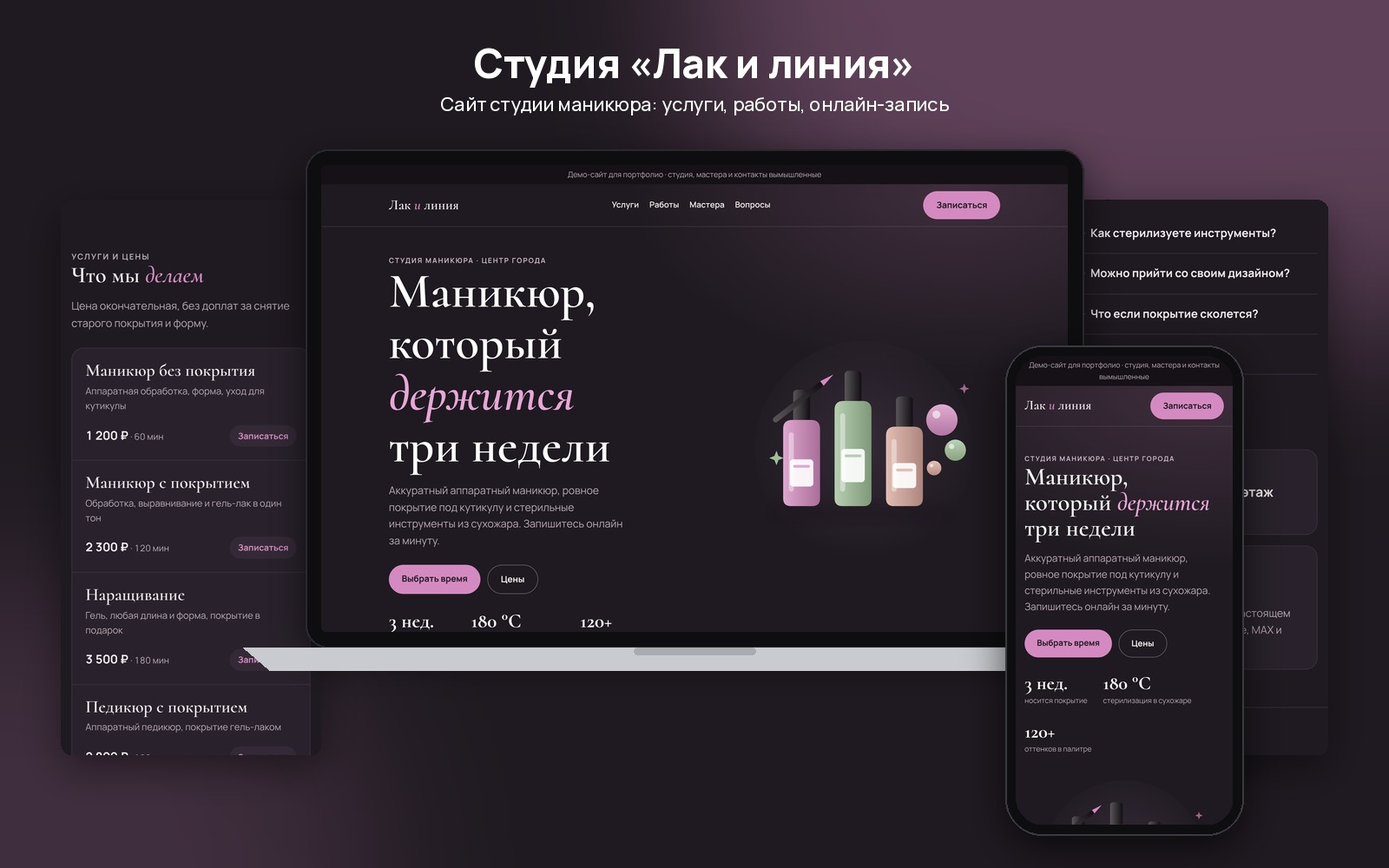
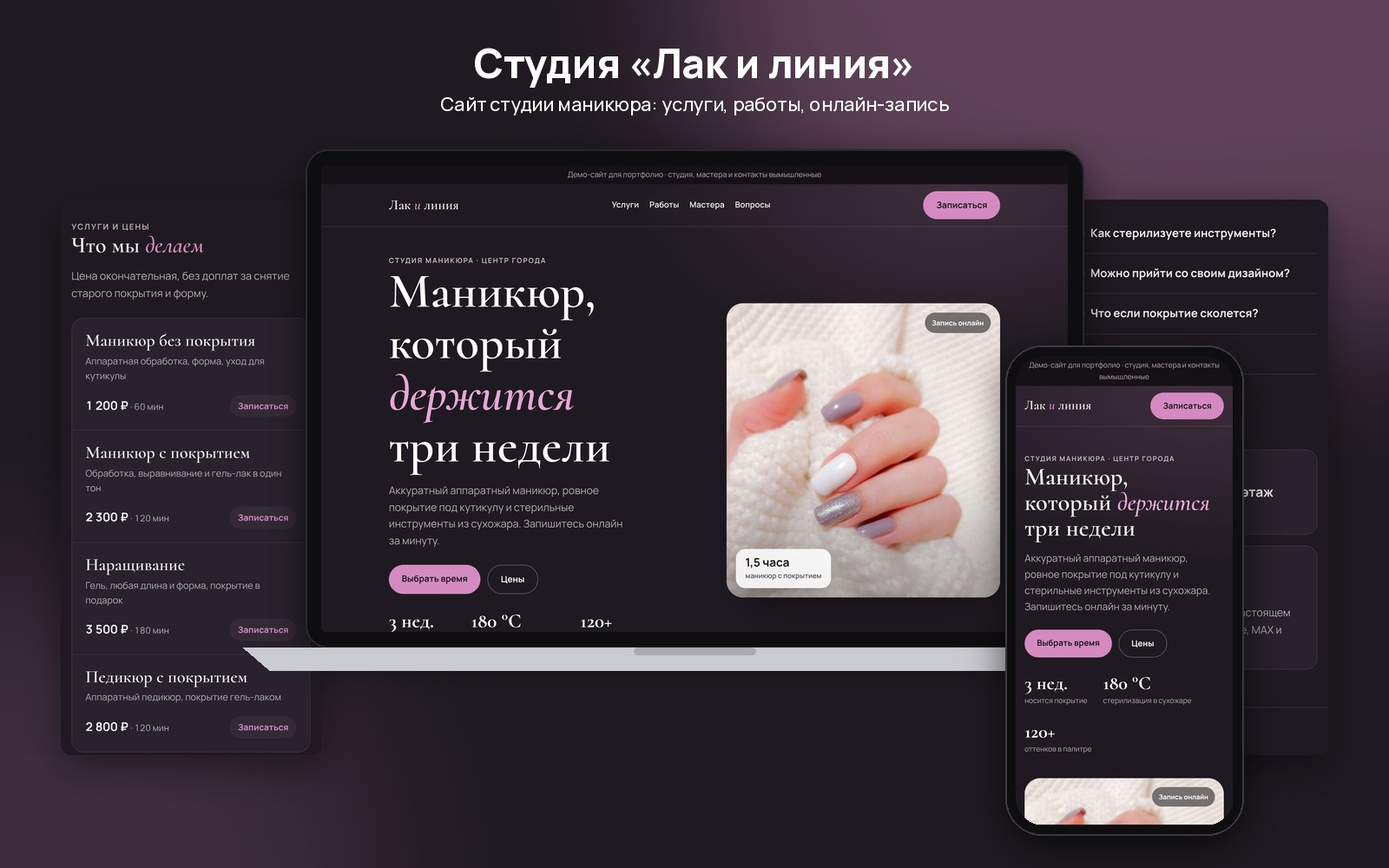
Примеры с настоящими фото (Unsplash), новые обложки
Claude-Session: https://claude.ai/code/session_01JFoXaW88EfvuPr2HYJzWZW

diff --git a/nogti/index.html b/nogti/index.html
@@ -106,7 +106,7 @@ input{width:100%;font:inherit;color:var(--fg);background:var(--bg);border:1px so
 .chip[aria-pressed="true"]{background:var(--fg);color:var(--bg);border-color:var(--fg)}
 .gallery{display:grid;grid-template-columns:repeat(auto-fill,minmax(150px,1fr));gap:12px;margin-top:18px}
 .work{border-radius:16px;overflow:hidden;background:var(--surface);border:1px solid var(--line)}
-.work canvas{display:block;width:100%;aspect-ratio:1}
+.work img{display:block;width:100%;aspect-ratio:1;object-fit:cover;transition:transform .6s cubic-bezier(.2,.75,.2,1)}.work{position:relative}.work:hover img{transform:scale(1.05)}
 .work p{font-size:13px;padding:8px 10px;color:var(--muted)}
 .masters{display:grid;grid-template-columns:repeat(auto-fit,minmax(220px,1fr));gap:16px}
 .master{display:flex;gap:14px;align-items:center;background:var(--surface);border:1px solid var(--line);border-radius:18px;padding:16px}
@@ -141,6 +141,15 @@ footer{border-top:1px solid var(--line);padding-block:24px;color:var(--muted);fo
 .band .facts b{color:#fff}
 .art .illus{width:100%;max-width:460px;display:block;margin:0 auto}
 .hero>*{min-width:0}
+
+/* фото в первом экране */
+.art.pho{position:relative;border-radius:28px;overflow:hidden;aspect-ratio:4/4.3;box-shadow:0 40px 70px -40px rgba(0,0,0,.55);background:var(--line,#ddd)}
+.art.pho>img{position:absolute;inset:0;width:100%;height:100%;object-fit:cover}
+.art.pho::after{content:"";position:absolute;inset:0;background:linear-gradient(180deg,rgba(0,0,0,0) 55%,rgba(0,0,0,.3))}
+.art.pho .glass{position:absolute;z-index:2;left:16px;bottom:16px;display:flex;flex-direction:column;gap:2px;padding:12px 16px;border-radius:16px;background:rgba(255,255,255,.86);backdrop-filter:blur(10px);color:#1d1d1f;box-shadow:0 10px 30px -10px rgba(0,0,0,.35)}
+.art.pho .glass b{font-size:20px;line-height:1.1}.art.pho .glass span{font-size:12px;color:#55555c;font-weight:600}
+.art.pho .tag2{position:absolute;z-index:2;right:16px;top:16px;padding:8px 12px;border-radius:999px;background:rgba(20,20,20,.55);backdrop-filter:blur(8px);color:#fff;font-size:12px;font-weight:700}
+@media (max-width:720px){.art.pho{aspect-ratio:4/3.4}}
 </style>
 <style>
 /* fx: плавные анимации (отключаются, если в системе включено «уменьшить движение») */
@@ -180,19 +189,7 @@ footer{border-top:1px solid var(--line);padding-block:24px;color:var(--muted);fo
       <div><b>120+</b><span>оттенков в палитре</span></div>
     </div>
   </div>
-  <div class="art"><svg class="illus" viewBox="0 0 480 400" xmlns="http://www.w3.org/2000/svg" aria-hidden="true"><defs><linearGradient id="i2l0" x1="0" y1="0" x2="0" y2="1"><stop offset="0" stop-color="#e0add2"/><stop offset="1" stop-color="#b475a3"/></linearGradient><linearGradient id="i2l1" x1="0" y1="0" x2="0" y2="1"><stop offset="0" stop-color="#bbd2b6"/><stop offset="1" stop-color="#87a280"/></linearGradient><linearGradient id="i2l2" x1="0" y1="0" x2="0" y2="1"><stop offset="0" stop-color="#e4c1b9"/><stop offset="1" stop-color="#b88d83"/></linearGradient><linearGradient id="i2l3" x1="0" y1="0" x2="1" y2="0"><stop offset="0" stop-color="#dea7cf"/><stop offset="1" stop-color="#a96e99"/></linearGradient><linearGradient id="i2l4" x1="0" y1="0" x2="1" y2="0"><stop offset="0" stop-color="#595659"/><stop offset="1" stop-color="#120E13"/></linearGradient><linearGradient id="i2l5" x1="0" y1="0" x2="1" y2="0"><stop offset="0" stop-color="#b7cfb1"/><stop offset="1" stop-color="#7f9878"/></linearGradient><linearGradient id="i2l6" x1="0" y1="0" x2="1" y2="0"><stop offset="0" stop-color="#595659"/><stop offset="1" stop-color="#120E13"/></linearGradient><linearGradient id="i2l7" x1="0" y1="0" x2="1" y2="0"><stop offset="0" stop-color="#e2bdb4"/><stop offset="1" stop-color="#ad857c"/></linearGradient><linearGradient id="i2l8" x1="0" y1="0" x2="1" y2="0"><stop offset="0" stop-color="#595659"/><stop offset="1" stop-color="#120E13"/></linearGradient><linearGradient id="i2l9" x1="0" y1="0" x2="1" y2="0"><stop offset="0" stop-color="#595659"/><stop offset="1" stop-color="#120E13"/></linearGradient><radialGradient id="i2r10" cx="50%" cy="45%" r="55%"><stop offset="0" stop-color="#342A37" stop-opacity="1"/><stop offset="1" stop-color="#342A37" stop-opacity="0"/></radialGradient><filter id="i2f11" x="-50%" y="-50%" width="200%" height="200%"><feGaussianBlur stdDeviation="9"/></filter></defs><circle cx="240" cy="200" r="195" fill="url(#i2r10)"/><ellipse cx="236" cy="312" rx="160" ry="14" fill="#120E13" opacity="0.28" filter="url(#i2f11)"/>
-<rect x="114" y="92" width="30" height="58" rx="7" fill="url(#i2l4)"/>
-<path d="M96 162q0-16 16-16h34q16 0 16 16v124q0 14-14 14h-38q-14 0-14-14z" fill="url(#i2l3)"/>
-<rect x="106" y="168" width="9" height="106" rx="4.5" fill="#fff" opacity=".4"/>
-<rect x="108" y="216.39999999999998" width="42" height="48.64" rx="6" fill="#fff" opacity=".9"/><rect x="114" y="226.39999999999998" width="30" height="5" rx="2.5" fill="#D48AC0" opacity=".7"/><rect x="206" y="58" width="30" height="58" rx="7" fill="url(#i2l6)"/>
-<path d="M188 128q0-16 16-16h34q16 0 16 16v158q0 14-14 14h-38q-14 0-14-14z" fill="url(#i2l5)"/>
-<rect x="198" y="134" width="9" height="140" rx="4.5" fill="#fff" opacity=".4"/>
-<rect x="200" y="197.7" width="42" height="59.52" rx="6" fill="#fff" opacity=".9"/><rect x="206" y="207.7" width="30" height="5" rx="2.5" fill="#9FBF97" opacity=".7"/><rect x="298" y="104" width="30" height="58" rx="7" fill="url(#i2l8)"/>
-<path d="M280 174q0-16 16-16h34q16 0 16 16v112q0 14-14 14h-38q-14 0-14-14z" fill="url(#i2l7)"/>
-<rect x="290" y="180" width="9" height="94" rx="4.5" fill="#fff" opacity=".4"/>
-<rect x="292" y="223.0" width="42" height="44.800000000000004" rx="6" fill="#fff" opacity=".9"/><rect x="298" y="233.0" width="30" height="5" rx="2.5" fill="#D9A79B" opacity=".7"/><circle cx="380" cy="146" r="28" fill="url(#i2l0)"/><circle cx="370.2" cy="136.2" r="7.0" fill="#fff" opacity=".6"/><circle cx="404" cy="200" r="19" fill="url(#i2l1)"/><circle cx="397.35" cy="193.35" r="4.75" fill="#fff" opacity=".6"/><circle cx="366" cy="232" r="13" fill="url(#i2l2)"/><circle cx="361.45" cy="227.45" r="3.25" fill="#fff" opacity=".6"/>
-<g transform="rotate(-38 120 120)"><rect x="70" y="112" width="110" height="10" rx="5" fill="url(#i2l9)"/><path d="M180 112l26 5-26 5z" fill="#D48AC0"/></g>
-<path d="M84 201l3.6400000000000006 9.36 9.36 3.6400000000000006-9.36 3.6400000000000006-3.6400000000000006 9.36-3.6400000000000006-9.36-9.36-3.6400000000000006 9.36-3.6400000000000006z" fill="#9FBF97" opacity="1"/><path d="M420 81l2.5200000000000005 6.4799999999999995 6.4799999999999995 2.5200000000000005-6.4799999999999995 2.5200000000000005-2.5200000000000005 6.4799999999999995-2.5200000000000005-6.4799999999999995-6.4799999999999995-2.5200000000000005 6.4799999999999995-2.5200000000000005z" fill="#D48AC0" opacity="0.7"/></svg></div>
+  <div class="art pho"><img src="img/nails-3.jpg" alt="Маникюр с блёстками" fetchpriority="high"><span class="tag2">Запись онлайн</span><div class="glass"><b>1,5 часа</b><span>маникюр с покрытием</span></div></div>
 </header>
 <div class="wrap"><div class="trust"><div><i><svg viewBox="0 0 24 24"><path d="M12 3l8 3v6c0 5-3.5 8-8 9-4.5-1-8-4-8-9V6z"/><path d="M8.5 12l2.5 2.5 4.5-5"/></svg></i><p style="margin:0"><b>Стерильно</b><span>крафт-пакет вскрываем при вас</span></p></div><div><i><svg viewBox="0 0 24 24"><path d="M12 3l2.7 5.6 6.1.9-4.4 4.3 1 6.1L12 17l-5.4 2.9 1-6.1L3.2 9.5l6.1-.9z"/></svg></i><p style="margin:0"><b>Гарантия 7 дней</b><span>исправим сколы бесплатно</span></p></div><div><i><svg viewBox="0 0 24 24"><circle cx="12" cy="12" r="9"/><path d="M12 7v5l3 2"/></svg></i><p style="margin:0"><b>Запись онлайн</b><span>свободное время сразу видно</span></p></div><div><i><svg viewBox="0 0 24 24"><path d="M12 3v6M12 15v6M3 12h6M15 12h6"/></svg></i><p style="margin:0"><b>120+ оттенков</b><span>и дизайн по вашей картинке</span></p></div></div></div>
 </div>
@@ -214,7 +211,7 @@ footer{border-top:1px solid var(--line);padding-block:24px;color:var(--muted);fo
   <div class="head"><div><p class="eyebrow">Портфолио</p><h2>Наши <em>работы</em></h2></div>
     <div class="filters" id="filters"></div></div>
   <div class="gallery" id="gallery"></div>
-  <p class="eyebrow" style="margin-top:12px">На настоящем сайте здесь будут фото ваших работ</p>
+  <p class="eyebrow" style="margin-top:12px;text-transform:none;letter-spacing:0">Фото: Unsplash (бесплатная лицензия). На вашем сайте здесь будут ваши фото.</p>
 </div></section>
 
 <section id="masters"><div class="wrap">
@@ -297,33 +294,25 @@ $("pane").addEventListener("click",e=>{
 });
 draw();
 
-// работы: узоры рисуются на canvas
+// работы: фото (Unsplash). На сайте клиента здесь его собственные работы
 const WORKS=[
-  {s:"Нюд",c:["#E8C8BE","#D9AFA3"],k:"plain"},{s:"Френч",c:["#F3E6E1","#FFFFFF"],k:"french"},{s:"Яркие",c:["#7A3E6E","#B24C8F"],k:"plain"},
-  {s:"Дизайн",c:["#2B2230","#C9A76A"],k:"dots"},{s:"Нюд",c:["#C98E86","#E6C1B9"],k:"ombre"},{s:"Дизайн",c:["#8FA487","#F3EEE6"],k:"lines"},
-  {s:"Френч",c:["#E6D4CF","#2B2230"],k:"french"},{s:"Яркие",c:["#C43B3B","#E86A5A"],k:"ombre"}
+  {s:"Нюд",src:"img/nails-2.jpg"},
+  {s:"Нюд",src:"img/nails-4.jpg"},
+  {s:"Дизайн",src:"img/nails-3.jpg"},
+  {s:"Тёмные",src:"img/nails-1.jpg"},
+  {s:"Светлые",src:"img/nails-5.jpg"},
+  {s:"Дизайн",src:"img/nails-11.jpg"},
+  {s:"Тёмные",src:"img/nails-6.jpg"},
+  {s:"Нюд",src:"img/nails-9.jpg"},
+  {s:"Светлые",src:"img/nails-7.jpg"},
+  {s:"Дизайн",src:"img/nails-8.jpg"}
 ];
-function paint(cv,w){
-  const x=cv.getContext("2d"),W=cv.width=240,H=cv.height=240;
-  x.fillStyle=getComputedStyle(document.body).getPropertyValue("--soft");x.fillRect(0,0,W,H);
-  const nails=[[40,70,34,120],[86,40,38,150],[134,46,38,146],[182,80,32,112]];
-  nails.forEach(([nx,ny,nw,nh],i)=>{
-    x.save();x.beginPath();x.roundRect(nx,ny,nw,nh,[nw/2,nw/2,8,8]);x.clip();
-    if(w.k==="ombre"){const g=x.createLinearGradient(0,ny,0,ny+nh);g.addColorStop(0,w.c[1]);g.addColorStop(1,w.c[0]);x.fillStyle=g}else x.fillStyle=w.c[0];
-    x.fillRect(nx,ny,nw,nh);
-    if(w.k==="french"){x.fillStyle=w.c[1];x.beginPath();x.ellipse(nx+nw/2,ny,nw*.62,nh*.2,0,0,Math.PI*2);x.fill()}
-    if(w.k==="dots"&&i%2===0){x.fillStyle=w.c[1];for(let d=0;d<5;d++){x.beginPath();x.arc(nx+nw/2,ny+18+d*22,3.2,0,7);x.fill()}}
-    if(w.k==="lines"&&i%2===1){x.strokeStyle=w.c[1];x.lineWidth=3;x.beginPath();x.moveTo(nx,ny+nh*.3);x.lineTo(nx+nw,ny+nh*.55);x.stroke()}
-    x.fillStyle="rgba(255,255,255,.28)";x.fillRect(nx+6,ny+12,5,nh*.5);
-    x.restore();
-  });
-}
 const STYLES=["Все",...new Set(WORKS.map(w=>w.s))];let style="Все";
 $("filters").innerHTML=STYLES.map(s=>`<button class="chip" aria-pressed="${s==="Все"}">${s}</button>`).join("");
 $("filters").addEventListener("click",e=>{const b=e.target.closest(".chip");if(!b)return;style=b.textContent;[...$("filters").children].forEach(c=>c.setAttribute("aria-pressed",c===b));gallery()});
 function gallery(){
   $("gallery").innerHTML="";
-  WORKS.filter(w=>style==="Все"||w.s===style).forEach(w=>{const d=document.createElement("div");d.className="work";const cv=document.createElement("canvas");d.appendChild(cv);d.insertAdjacentHTML("beforeend",`<p>${w.s}</p>`);$("gallery").appendChild(d);paint(cv,w)});
+  WORKS.filter(w=>style==="Все"||w.s===style).forEach(w=>{const d=document.createElement("div");d.className="work";d.innerHTML=`<img src="${w.src}" alt="Маникюр: ${w.s}" loading="lazy"><p>${w.s}</p>`;$("gallery").appendChild(d)});
 }
 gallery();
 $("masterList").innerHTML=MASTERS.slice(0,2).map(m=>`<div class="master"><div class="ava" style="background:${m.c}">${m.n[0]}</div><div><b>${m.n}</b><p>${m.r}</p></div></div>`).join("")+`<div class="master"><div class="ava" style="background:#C98E86">+</div><div><b>Ученица-мастер</b><p>Маникюр со скидкой 30% под присмотром Алины</p></div></div>`;

diff --git a/tort/index.html b/tort/index.html
@@ -110,6 +110,15 @@ footer{border-top:1px solid var(--line);padding-block:24px;color:var(--muted);fo
 .trust span{font-size:13px;color:var(--muted)}
 @media (max-width:720px){.trust{grid-template-columns:repeat(2,minmax(0,1fr))}}
 .art .illus{width:100%;max-width:460px;display:block;margin:0 auto}
+
+/* фото в первом экране */
+.art.pho{position:relative;border-radius:28px;overflow:hidden;aspect-ratio:4/4.3;box-shadow:0 40px 70px -40px rgba(0,0,0,.55);background:var(--line,#ddd)}
+.art.pho>img{position:absolute;inset:0;width:100%;height:100%;object-fit:cover}
+.art.pho::after{content:"";position:absolute;inset:0;background:linear-gradient(180deg,rgba(0,0,0,0) 55%,rgba(0,0,0,.3))}
+.art.pho .glass{position:absolute;z-index:2;left:16px;bottom:16px;display:flex;flex-direction:column;gap:2px;padding:12px 16px;border-radius:16px;background:rgba(255,255,255,.86);backdrop-filter:blur(10px);color:#1d1d1f;box-shadow:0 10px 30px -10px rgba(0,0,0,.35)}
+.art.pho .glass b{font-size:20px;line-height:1.1}.art.pho .glass span{font-size:12px;color:#55555c;font-weight:600}
+.art.pho .tag2{position:absolute;z-index:2;right:16px;top:16px;padding:8px 12px;border-radius:999px;background:rgba(20,20,20,.55);backdrop-filter:blur(8px);color:#fff;font-size:12px;font-weight:700}
+@media (max-width:720px){.art.pho{aspect-ratio:4/3.4}}
 </style>
 
 <style>
@@ -152,17 +161,7 @@ footer{border-top:1px solid var(--line);padding-block:24px;color:var(--muted);fo
         <div><b>5 начинок</b>на выбор</div>
       </div>
     </div>
-    <div class="art"><svg class="illus" viewBox="0 0 480 400" xmlns="http://www.w3.org/2000/svg" aria-hidden="true"><defs><linearGradient id="i0l0" x1="0" y1="0" x2="0" y2="1"><stop offset="0" stop-color="#cb3a73"/><stop offset="1" stop-color="#a4144d"/></linearGradient><linearGradient id="i0l1" x1="0" y1="0" x2="0" y2="1"><stop offset="0" stop-color="#FFF7F2"/><stop offset="1" stop-color="#eae3de"/></linearGradient><linearGradient id="i0l2" x1="0" y1="0" x2="0" y2="1"><stop offset="0" stop-color="#6a483b"/><stop offset="1" stop-color="#5A3426"/></linearGradient><linearGradient id="i0l3" x1="0" y1="0" x2="0" y2="1"><stop offset="0" stop-color="#ce467b"/><stop offset="1" stop-color="#911244"/></linearGradient><linearGradient id="i0l4" x1="0" y1="0" x2="0" y2="1"><stop offset="0" stop-color="#ce467b"/><stop offset="1" stop-color="#911244"/></linearGradient><linearGradient id="i0l5" x1="0" y1="0" x2="0" y2="1"><stop offset="0" stop-color="#ce467b"/><stop offset="1" stop-color="#911244"/></linearGradient><linearGradient id="i0l6" x1="0" y1="0" x2="0" y2="1"><stop offset="0" stop-color="#ce467b"/><stop offset="1" stop-color="#911244"/></linearGradient><linearGradient id="i0l7" x1="0" y1="0" x2="0" y2="1"><stop offset="0" stop-color="#99b88c"/><stop offset="1" stop-color="#6E9A5C"/></linearGradient><linearGradient id="i0l8" x1="0" y1="0" x2="0" y2="1"><stop offset="0" stop-color="#99b88c"/><stop offset="1" stop-color="#6E9A5C"/></linearGradient><radialGradient id="i0r9" cx="50%" cy="45%" r="55%"><stop offset="0" stop-color="#F6E3EA" stop-opacity="1"/><stop offset="1" stop-color="#F6E3EA" stop-opacity="0"/></radialGradient><filter id="i0f10" x="-50%" y="-50%" width="200%" height="200%"><feGaussianBlur stdDeviation="9"/></filter></defs><circle cx="240" cy="200" r="195" fill="url(#i0r9)"/><ellipse cx="240" cy="340" rx="160" ry="14" fill="#2B1D29" opacity="0.28" filter="url(#i0f10)"/>
-<ellipse cx="240" cy="326" rx="160" ry="20" fill="#e9d7de"/><ellipse cx="240" cy="320" rx="150" ry="16" fill="#FFFFFF"/>
-<rect x="112" y="222" width="256" height="96" rx="18" fill="url(#i0l1)"/>
-<rect x="112" y="290" width="256" height="28" rx="10" fill="url(#i0l0)"/>
-<path d="M112 236q21 30 42 0t43 0t43 0t43 0t43 0t42 0v-14h-256z" fill="url(#i0l2)"/>
-<rect x="148" y="146" width="184" height="86" rx="16" fill="url(#i0l0)"/>
-<rect x="160" y="160" width="10" height="56" rx="5" fill="#fff" opacity=".18"/>
-<path d="M148 158q18 24 37 0t37 0t37 0t37 0t36 0v-12h-184z" fill="url(#i0l2)"/>
-<rect x="184" y="100" width="112" height="56" rx="14" fill="url(#i0l1)"/>
-<circle cx="196" cy="112" r="11" fill="url(#i0l3)"/><circle cx="192" cy="108" r="3" fill="#fff" opacity=".7"/><circle cx="226" cy="102" r="11" fill="url(#i0l4)"/><circle cx="222" cy="98" r="3" fill="#fff" opacity=".7"/><circle cx="256" cy="102" r="11" fill="url(#i0l5)"/><circle cx="252" cy="98" r="3" fill="#fff" opacity=".7"/><circle cx="286" cy="112" r="11" fill="url(#i0l6)"/><circle cx="282" cy="108" r="3" fill="#fff" opacity=".7"/><rect x="218" y="58" width="9" height="40" rx="3" fill="url(#i0l7)"/><path d="M219 66l7-4M219 78l7-4M219 90l7-4" stroke="#fff" stroke-width="2" opacity=".6"/><path d="M222.5 40c8 8 5 15 0 17c-5-2-8-9 0-17z" fill="#FFC35A"/><circle cx="222.5" cy="50" r="12" fill="#FFC35A" opacity=".18"/><rect x="254" y="58" width="9" height="40" rx="3" fill="url(#i0l8)"/><path d="M255 66l7-4M255 78l7-4M255 90l7-4" stroke="#fff" stroke-width="2" opacity=".6"/><path d="M258.5 40c8 8 5 15 0 17c-5-2-8-9 0-17z" fill="#FFC35A"/><circle cx="258.5" cy="50" r="12" fill="#FFC35A" opacity=".18"/>
-<path d="M396 104l4.48 11.52 11.52 4.48-11.52 4.48-4.48 11.52-4.48-11.52-11.52-4.48 11.52-4.48z" fill="#6E9A5C" opacity="1"/><path d="M88 165l3.08 7.92 7.92 3.08-7.92 3.08-3.08 7.92-3.08-7.92-7.92-3.08 7.92-3.08z" fill="#C2185B" opacity="0.7"/><path d="M372 242l2.24 5.76 5.76 2.24-5.76 2.24-2.24 5.76-2.24-5.76-5.76-2.24 5.76-2.24z" fill="#C2185B" opacity="0.6"/></svg></div>
+    <div class="art pho"><img src="img/cake-8.jpg" alt="Розовый торт с подтёками и рожком мороженого" fetchpriority="high"><span class="tag2">Заказ за 3 дня</span><div class="glass"><b>от 1 800 ₽</b><span>за килограмм торта</span></div></div>
   </div>
   <div class="trust"><div><i><svg viewBox="0 0 24 24"><path d="M5 19c0-8 6-14 15-14 0 9-6 15-14 15"/><path d="M5 19l7-7"/></svg></i><p style="margin:0"><b>Натуральный состав</b><span>масло, сливки, ягоды</span></p></div><div><i><svg viewBox="0 0 24 24"><circle cx="12" cy="12" r="9"/><path d="M12 7v5l3 2"/></svg></i><p style="margin:0"><b>Заказ за 3 дня</b><span>или срочно по договорённости</span></p></div><div><i><svg viewBox="0 0 24 24"><path d="M3 6h11v9H3zM14 9h4l3 3v3h-7"/><circle cx="7" cy="17" r="2"/><circle cx="17" cy="17" r="2"/></svg></i><p style="margin:0"><b>Доставка 300 ₽</b><span>по городу в день праздника</span></p></div><div><i><svg viewBox="0 0 24 24"><path d="M4 5h16v11H9l-5 4z"/></svg></i><p style="margin:0"><b>Ответ за час</b><span>в Telegram и WhatsApp</span></p></div></div>
 </div></div>
@@ -175,14 +174,8 @@ footer{border-top:1px solid var(--line);padding-block:24px;color:var(--muted);fo
 
 <section id="works"><div class="wrap">
   <h2>Наши торты</h2>
-  <p class="wsub">Фото с бесплатного фотостока. На вашем сайте здесь будут ваши работы.</p>
-  <div class="mosaic">
-    <figure class="big"><img src="img/p1409.jpg" alt="Белый торт с ягодами и свечой" loading="lazy"><figcaption>На день рождения</figcaption></figure>
-    <figure><img src="img/p1217.jpg" alt="Нежно-розовый торт на подставке" loading="lazy"><figcaption>Свадебные и праздничные</figcaption></figure>
-    <figure><img src="img/p1713.jpg" alt="Шоколадные капкейки с посыпкой" loading="lazy"><figcaption>Капкейки</figcaption></figure>
-    <figure><img src="img/p1576.jpg" alt="Конфеты в форме сердец" loading="lazy"><figcaption>Сладкий стол</figcaption></figure>
-    <figure><img src="img/p1185.jpg" alt="Клубника и голубика" loading="lazy"><figcaption>Свежие ягоды</figcaption></figure>
-  </div>
+  <p class="wsub">Фото: Unsplash (бесплатная лицензия). На вашем сайте здесь будут ваши фото.</p>
+  <div class="mosaic"><figure class="big"><img src="img/cake-2.jpg" alt="Торт с шоколадными подтёками" loading="lazy"><figcaption>Шоколадные подтёки</figcaption></figure><figure><img src="img/cake-11.jpg" alt="Мятный торт с розовым кремом" loading="lazy"><figcaption>Праздничные</figcaption></figure><figure><img src="img/cake-9.jpg" alt="Радужный торт с посыпкой" loading="lazy"><figcaption>Детские</figcaption></figure><figure><img src="img/cake-13.jpg" alt="Капкейки с кремом" loading="lazy"><figcaption>Капкейки</figcaption></figure><figure><img src="img/cake-6.jpg" alt="Белый торт со свечой" loading="lazy"><figcaption>На день рождения</figcaption></figure></div>
 </div></section>
 
 <section id="calc"><div class="wrap">
@@ -216,7 +209,7 @@ footer{border-top:1px solid var(--line);padding-block:24px;color:var(--muted);fo
   <div class="steps">
     <div class="step"><b>1</b><p>Выберите начинку и вес в калькуляторе или напишите, если не уверены.</p></div>
     <div class="step"><b>2</b><p>Обсудим дизайн. Можно прислать картинку-пример.</p></div>
-    <div class="step"><b>3</b><p>Предоплата 50%. Остальное при получении.</p></div>
+    <div class="step"><b>3</b><p>Оплата при получении торта.</p></div>
     <div class="step"><b>4</b><p>Самовывоз или доставка по городу в день праздника.</p></div>
   </div>
 </div></section>

diff --git a/remont/index.html b/remont/index.html
@@ -82,6 +82,23 @@ footer{padding-block:24px;color:var(--muted);font-size:14px;border-top:1px solid
 .band .hero h1{color:#fff}.band .hero h1 span{color:var(--amber)}
 .tool{position:absolute;right:-40px;top:40px;width:420px;opacity:.07;pointer-events:none}
 .art .illus{width:100%;max-width:440px;display:block;margin:0 auto}
+
+/* фото в первом экране */
+.art.pho{position:relative;border-radius:28px;overflow:hidden;aspect-ratio:4/4.3;box-shadow:0 40px 70px -40px rgba(0,0,0,.55);background:var(--line,#ddd)}
+.art.pho>img{position:absolute;inset:0;width:100%;height:100%;object-fit:cover}
+.art.pho::after{content:"";position:absolute;inset:0;background:linear-gradient(180deg,rgba(0,0,0,0) 55%,rgba(0,0,0,.3))}
+.art.pho .glass{position:absolute;z-index:2;left:16px;bottom:16px;display:flex;flex-direction:column;gap:2px;padding:12px 16px;border-radius:16px;background:rgba(255,255,255,.86);backdrop-filter:blur(10px);color:#1d1d1f;box-shadow:0 10px 30px -10px rgba(0,0,0,.35)}
+.art.pho .glass b{font-size:20px;line-height:1.1}.art.pho .glass span{font-size:12px;color:#55555c;font-weight:600}
+.art.pho .tag2{position:absolute;z-index:2;right:16px;top:16px;padding:8px 12px;border-radius:999px;background:rgba(20,20,20,.55);backdrop-filter:blur(8px);color:#fff;font-size:12px;font-weight:700}
+@media (max-width:720px){.art.pho{aspect-ratio:4/3.4}}
+.wsub{color:var(--muted);margin-top:6px;font-size:14px}
+.mosaic{display:grid;grid-template-columns:2fr 1fr 1fr;grid-auto-rows:190px;gap:12px;margin-top:18px}
+.mosaic figure{margin:0;position:relative;border-radius:16px;overflow:hidden;background:var(--line)}
+.mosaic .big{grid-row:span 2}
+.mosaic img{width:100%;height:100%;object-fit:cover;display:block;transition:transform .6s cubic-bezier(.2,.75,.2,1)}
+.mosaic figure:hover img{transform:scale(1.05)}
+.mosaic figcaption{position:absolute;left:0;right:0;bottom:0;padding:22px 14px 12px;color:#fff;font-weight:700;font-size:14px;background:linear-gradient(0deg,rgba(0,0,0,.6),rgba(0,0,0,0))}
+@media (max-width:720px){.mosaic{grid-template-columns:1fr 1fr;grid-auto-rows:150px}.mosaic .big{grid-column:span 2;grid-row:span 2}}
 </style>
 <style>
 /* fx: плавные анимации (отключаются, если в системе включено «уменьшить движение») */
@@ -115,16 +132,7 @@ footer{padding-block:24px;color:var(--muted);font-size:14px;border-top:1px solid
       <p>Поставим набойки за 15 минут, заменим батарейку при вас, сделаем дубликат ключа от домофона. Гарантия на ремонт 30 дней.</p>
       <div class="tags"><span>Набойки за 15 минут</span><span>Без записи</span><span>Гарантия 30 дней</span></div>
     </div>
-    <div class="art"><svg class="illus" viewBox="0 0 480 400" xmlns="http://www.w3.org/2000/svg" aria-hidden="true"><defs><linearGradient id="i1l0" x1="0" y1="0" x2="0" y2="1"><stop offset="0" stop-color="#e0ab61"/><stop offset="1" stop-color="#a2712b"/></linearGradient><linearGradient id="i1l1" x1="0" y1="0" x2="1" y2="1"><stop offset="0" stop-color="#a5c1d9"/><stop offset="1" stop-color="#6585a0"/></linearGradient><linearGradient id="i1l2" x1="0" y1="0" x2="1" y2="1"><stop offset="0" stop-color="#abc5db"/><stop offset="1" stop-color="#7296b4"/></linearGradient><linearGradient id="i1l3" x1="0" y1="0" x2="0" y2="1"><stop offset="0" stop-color="#4b4e50"/><stop offset="1" stop-color="#0F1316"/></linearGradient><radialGradient id="i1r4" cx="50%" cy="45%" r="55%"><stop offset="0" stop-color="#2B333B" stop-opacity="1"/><stop offset="1" stop-color="#2B333B" stop-opacity="0"/></radialGradient><filter id="i1f5" x="-50%" y="-50%" width="200%" height="200%"><feGaussianBlur stdDeviation="9"/></filter></defs><circle cx="240" cy="200" r="195" fill="url(#i1r4)"/><ellipse cx="230" cy="338" rx="185" ry="14" fill="#0F1316" opacity="0.28" filter="url(#i1f5)"/>
-<path d="M66 300c0-34 8-96 32-120h56c8 38 38 62 84 70c46 8 78 16 78 50z" fill="url(#i1l0)"/>
-<path d="M66 300h250v16q0 8-8 8H74q-8 0-8-8z" fill="url(#i1l3)"/>
-<circle cx="120" cy="204" r="5" fill="#F5F1EA"/><circle cx="138" cy="215" r="5" fill="#F5F1EA"/><circle cx="156" cy="226" r="5" fill="#F5F1EA"/>
-<circle cx="352" cy="148" r="70" fill="url(#i1l1)"/><circle cx="352" cy="148" r="56" fill="#FBFAF6"/>
-<rect x="350" y="98" width="4" height="10" rx="2" fill="#0F1316" transform="rotate(0 352 148)"/><rect x="350" y="98" width="4" height="10" rx="2" fill="#0F1316" transform="rotate(30 352 148)"/><rect x="350" y="98" width="4" height="10" rx="2" fill="#0F1316" transform="rotate(60 352 148)"/><rect x="350" y="98" width="4" height="10" rx="2" fill="#0F1316" transform="rotate(90 352 148)"/><rect x="350" y="98" width="4" height="10" rx="2" fill="#0F1316" transform="rotate(120 352 148)"/><rect x="350" y="98" width="4" height="10" rx="2" fill="#0F1316" transform="rotate(150 352 148)"/><rect x="350" y="98" width="4" height="10" rx="2" fill="#0F1316" transform="rotate(180 352 148)"/><rect x="350" y="98" width="4" height="10" rx="2" fill="#0F1316" transform="rotate(210 352 148)"/><rect x="350" y="98" width="4" height="10" rx="2" fill="#0F1316" transform="rotate(240 352 148)"/><rect x="350" y="98" width="4" height="10" rx="2" fill="#0F1316" transform="rotate(270 352 148)"/><rect x="350" y="98" width="4" height="10" rx="2" fill="#0F1316" transform="rotate(300 352 148)"/><rect x="350" y="98" width="4" height="10" rx="2" fill="#0F1316" transform="rotate(330 352 148)"/>
-<path d="M352 148v-36M352 148l26 16" stroke="#0F1316" stroke-width="6" stroke-linecap="round"/><circle cx="352" cy="148" r="6" fill="#0F1316"/>
-<g transform="rotate(-38 150 104)"><circle cx="150" cy="104" r="28" fill="none" stroke="url(#i1l2)" stroke-width="13"/><rect x="174" y="98" width="96" height="13" rx="6.5" fill="url(#i1l2)"/>
-<rect x="238" y="108" width="11" height="18" rx="3" fill="url(#i1l2)"/><rect x="256" y="108" width="11" height="13" rx="3" fill="url(#i1l2)"/></g>
-<path d="M420 259l3.08 7.92 7.92 3.08-7.92 3.08-3.08 7.92-3.08-7.92-7.92-3.08 7.92-3.08z" fill="#D9973A" opacity="0.8"/></svg></div>
+    <div class="art pho"><img src="img/shoe-0.jpg" alt="Мастерская: инструменты и кожаный ботинок" fetchpriority="high"><span class="tag2">Без записи</span><div class="glass"><b>15 минут</b><span>набойки при вас</span></div></div>
   </div>
   <div class="trust"><div><i><svg viewBox="0 0 24 24"><circle cx="12" cy="12" r="9"/><path d="M12 7v5l3 2"/></svg></i><p style="margin:0"><b>15 минут</b><span>набойки и батарейка при вас</span></p></div><div><i><svg viewBox="0 0 24 24"><path d="M12 3l8 3v6c0 5-3.5 8-8 9-4.5-1-8-4-8-9V6z"/><path d="M8.5 12l2.5 2.5 4.5-5"/></svg></i><p style="margin:0"><b>Гарантия 30 дней</b><span>на любой ремонт</span></p></div><div><i><svg viewBox="0 0 24 24"><circle cx="8" cy="15" r="4"/><path d="M11 12l9-9M17 6l2 2"/></svg></i><p style="margin:0"><b>Ключи и домофон</b><span>дубликат за 5 минут</span></p></div><div><i><svg viewBox="0 0 24 24"><path d="M12 3l2.7 5.6 6.1.9-4.4 4.3 1 6.1L12 17l-5.4 2.9 1-6.1L3.2 9.5l6.1-.9z"/></svg></i><p style="margin:0"><b>Осмотр бесплатно</b><span>цена до начала работ</span></p></div></div>
 </div></div>
@@ -135,6 +143,8 @@ footer{padding-block:24px;color:var(--muted);font-size:14px;border-top:1px solid
   <div class="price" id="priceList" role="tabpanel"></div>
   <p class="note">Точную цену мастер назовёт, когда посмотрит вещь. Осмотр бесплатный.</p>
 </div></section>
+
+<section id="works"><div class="wrap"><h2>Мастерская</h2><p class="wsub">Фото: Unsplash (бесплатная лицензия). На вашем сайте здесь будут ваши фото.</p><div class="mosaic"><figure class="big"><img src="img/shoe-1.jpg" alt="Ремонт и чистка обуви" loading="lazy"><figcaption>Ремонт и чистка обуви</figcaption></figure><figure><img src="img/watch-1.jpg" alt="Ремонт часов" loading="lazy"><figcaption>Ремонт часов</figcaption></figure><figure><img src="img/keys-1.jpg" alt="Дубликаты ключей" loading="lazy"><figcaption>Дубликаты ключей</figcaption></figure><figure><img src="img/watch-0.jpg" alt="Замена батареек и механизмов" loading="lazy"><figcaption>Замена батареек и механизмов</figcaption></figure><figure><img src="img/shoe-3.jpg" alt="Уход за кожей" loading="lazy"><figcaption>Уход за кожей</figcaption></figure></div></div></section>
 
 <section><div class="wrap">
   <h2>Как сдать в ремонт</h2>

diff --git a/index.html b/index.html
@@ -220,7 +220,7 @@ footer{padding-block:24px;color:var(--muted);font-size:14px}
   </div>
 </div></section>
 
-<footer><div class="wrap">Примеры на этой странице сделаны для вымышленных бизнесов. Фото тортов в примере взяты с бесплатного фотостока (Pixabay).</div></footer>
+<footer><div class="wrap">Примеры на этой странице сделаны для вымышленных бизнесов. Фото в примерах взяты с бесплатного фотостока Unsplash.</div></footer>
 <a class="mcta btn" href="#contact">Обсудить сайт</a>
 
 <script>window.FX_NO_SOUND=true;
